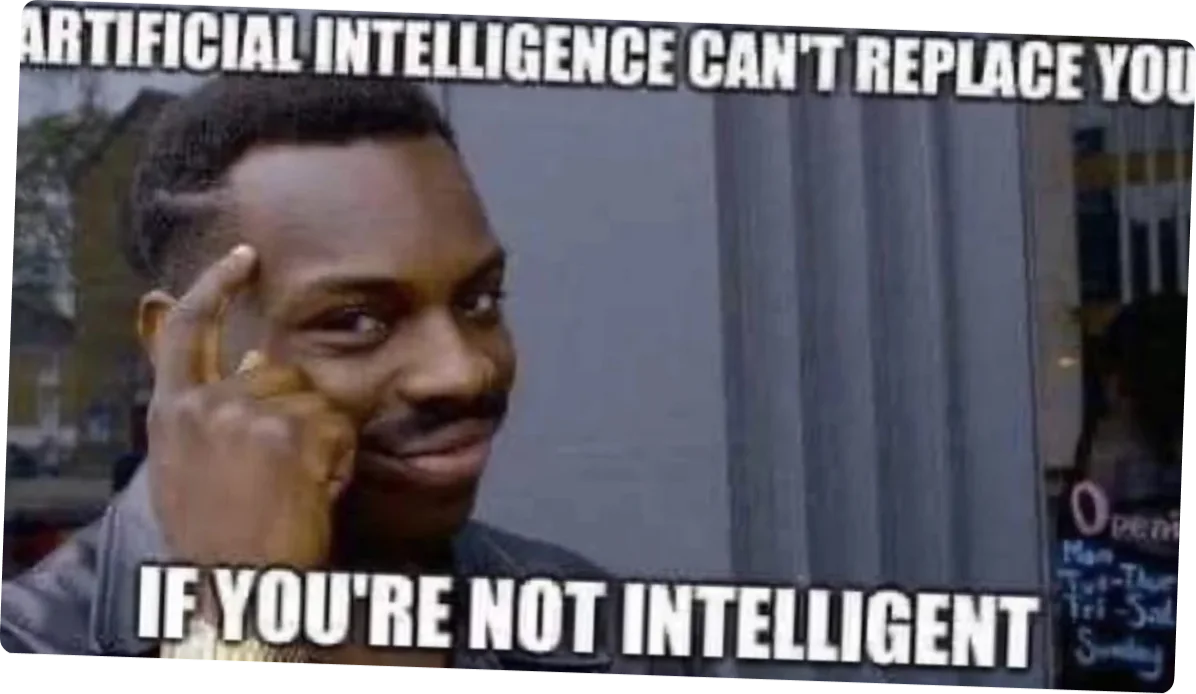
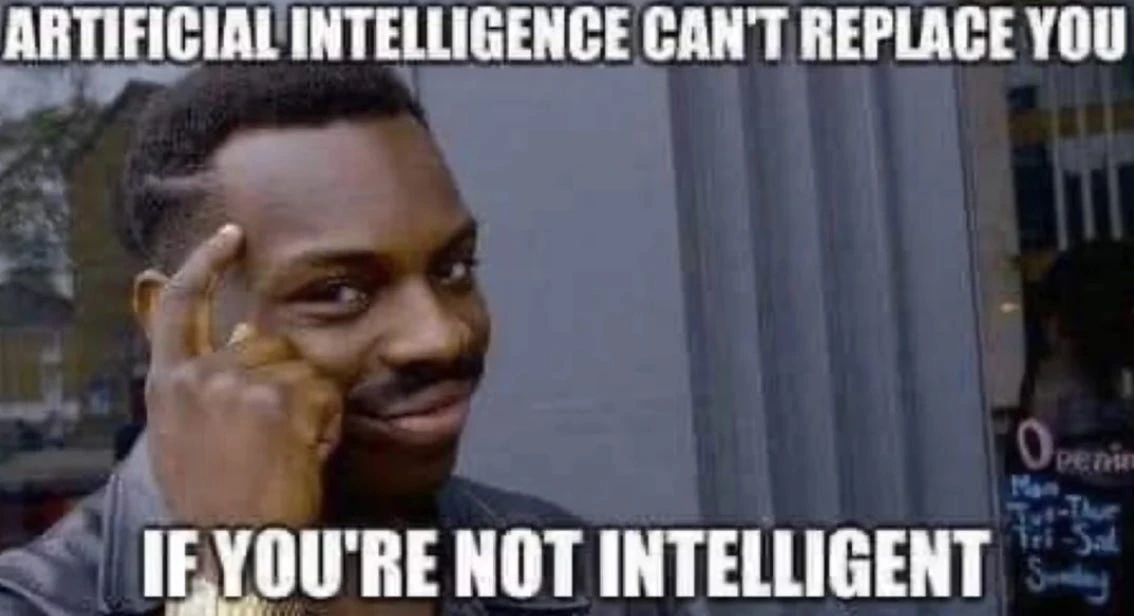
Smooth out the memes animation and sharpen every thumbnail
Animation: the slides are now dealt rather than cross-faded — each arrives
opaque, sliding up on an ease-out with a slight tip, and covers the one before
it. Cross-fading meant two memes showing through each other at every handover.

Three causes of the judder, all removed: a CSS transition fighting per-frame
writes to the same properties; the pin offset living in a custom property on
:root, which invalidated style for the whole page each frame; and a
requestAnimationFrame hop that only added a frame of lag behind the wheel.

Thumbnails: the memes were rendered nodes at 2x, so Figma upsampled them from
the source fill before I re-encoded. They now come from the source fills at
native resolution, with object-fit matching each node's Figma scale mode
(FILL -> cover, STRETCH -> fill).

Verified over the runway: the view holds one position, all seven slides play in
order with no empty frame, and per 4px of scroll opacity moves at most 0.089 and
position 5.7px — a continuous curve, no snapping.

Three sources stay soft because that is their size in Figma: meme 1 (490x367),
meme 6 (500x585) and article thumbnail 3 (399x501) are all smaller than the box
they are shown in.

diff --git a/script.js b/script.js
@@ -51,28 +51,81 @@
   /* --- pinned memes ------------------------------------------------------- */
 
   // While the pin is active the canvas is pushed down by exactly as much as the
-  // page scrolls, so the view stands still and only the slides change. Past the
+  // page scrolls, so the view stands still and only the slides move. Past the
   // runway the offset stays put and the page carries on as normal.
+  //
+  // Everything here is driven straight from the scroll offset, with no CSS
+  // transitions in the way: a transition fighting a per-frame update is what
+  // makes this kind of thing stutter. The slides cross-fade and drift on a
+  // continuous curve instead of snapping between states.
+
+  // Each slide is dealt onto the stack: it arrives opaque, sliding up into place
+  // with a slight tip, and covers the one before it. Nothing cross-fades while
+  // half-transparent — two memes showing through each other is what made the
+  // earlier version look muddy.
+  var ENTER   = 0.62;   // share of a slot spent arriving
+  var OPAQUE  = 0.12;   // share spent becoming solid — kept short so that two
+                        // memes are never visible through each other, and it
+                        // happens while the card is still far out and moving
+                        // fast, so it reads as motion rather than a fade
+  var TRAVEL  = 150;    // px the card covers on its way in
+  var RETIRE  = 2;      // slots behind before a covered slide is dropped
+  var memesHeading = document.getElementById('memes-h');
+
+  function clamp01(v) { return v < 0 ? 0 : v > 1 ? 1 : v; }
+
   function pinOffset() {
     return Math.min(Math.max(window.scrollY - pinFrom, 0), runway);
   }
 
   function syncPin() {
     var off = pinOffset();
-    document.documentElement.style.setProperty('--pin', off + 'px');
 
-    if (!memeSlides.length) return;
-    var i = runway ? Math.floor(off / runway * memeSlides.length) : 0;
-    i = Math.min(memeSlides.length - 1, Math.max(0, i));
-    memeSlides.forEach(function (s, n) { s.classList.toggle('is-active', n === i); });
+    // set the transform on the element, not as a custom property on :root —
+    // an inherited property invalidates every element in the page each frame
+    canvas.style.transform =
+      'translate3d(0,' + off + 'px,0) scale(' + scale + ')';
+
+    var n = memeSlides.length;
+    if (!n || !runway) return;
+
+    // slide 0 rests at the start, slide n-1 rests at the end
+    var s = off / runway * (n - 1);
+
+    for (var i = 0; i < n; i++) {
+      var u  = s - i + 1;                     // 0 = about to arrive, 1 = settled
+      var el = memeSlides[i];
+
+      if (u <= 0) { el.style.opacity = 0; continue; }
+
+      var a = clamp01(u / OPAQUE);
+      if (u > RETIRE) a *= clamp01(RETIRE + 1 - u);   // covered anyway, drop it
+      el.style.opacity = a;
+      if (a === 0) continue;
+
+      var e = clamp01(u / ENTER);
+      var k = 1 - Math.pow(1 - e, 3);         // ease-out, so it lands softly
+      var rest = 1 - k;
+      var tip  = (i % 2 ? -1 : 1) * 3.5 * rest;
+
+      el.style.transform =
+        'translate3d(0,' + (rest * TRAVEL).toFixed(2) + 'px,0)' +
+        ' rotate(' + tip.toFixed(2) + 'deg)' +
+        ' scale(' + (0.93 + 0.07 * k).toFixed(4) + ')';
+    }
+
+    // the heading drifts a touch against the stack — a hint of depth
+    if (memesHeading) {
+      memesHeading.style.transform =
+        'translate3d(0,' + (-(off / runway) * 26).toFixed(2) + 'px,0)';
+    }
   }
 
-  var pinQueued = false;
-  window.addEventListener('scroll', function () {
-    if (pinQueued) return;
-    pinQueued = true;
-    requestAnimationFrame(function () { pinQueued = false; syncPin(); });
-  }, { passive: true });
+  // Called straight from the scroll event rather than through requestAnimationFrame:
+  // the browser already coalesces scroll to at most one event per frame, and the
+  // extra rAF hop only adds a frame of lag between the wheel and the paint —
+  // which is exactly what reads as the animation dragging behind the scroll.
+  window.addEventListener('scroll', syncPin, { passive: true });
 
   syncPin();
 

diff --git a/index.html b/index.html
@@ -161,10 +161,10 @@
       <figure class="slide is-active" style="left:376px;top:12px;width:786px;height:721px"><img src="assets/img/meme-7.webp" alt="Meme" loading="lazy"></figure>
       <figure class="slide" style="left:437px;top:1px;width:626px;height:466px"><img src="assets/img/meme-1.webp" alt="Meme" loading="lazy"></figure>
       <figure class="slide" style="left:440px;top:1px;width:631px;height:613px"><img src="assets/img/meme-2.webp" alt="Meme" loading="lazy"></figure>
-      <figure class="slide" style="left:449px;top:1px;width:623px;height:372px"><img src="assets/img/meme-3.webp" alt="Meme" loading="lazy"></figure>
+      <figure class="slide" style="left:449px;top:1px;width:623px;height:372px"><img class="stretch" src="assets/img/meme-3.webp" alt="Meme" loading="lazy"></figure>
       <figure class="slide" style="left:449px;top:1px;width:633px;height:660px"><img src="assets/img/meme-4.webp" alt="Meme" loading="lazy"></figure>
       <figure class="slide" style="left:459px;top:1px;width:631px;height:613px"><img src="assets/img/meme-5.webp" alt="Meme" loading="lazy"></figure>
-      <figure class="slide" style="left:467px;top:1px;width:635px;height:715px"><img src="assets/img/meme-6.webp" alt="Meme" loading="lazy"></figure>
+      <figure class="slide" style="left:467px;top:1px;width:635px;height:715px"><img class="stretch" src="assets/img/meme-6.webp" alt="Meme" loading="lazy"></figure>
 
     </div>
   </section>

diff --git a/styles.css b/styles.css
@@ -232,6 +232,8 @@ img.a, .bg img { display: block; user-select: none; -webkit-user-drag: none; }
 
 /* --- memes carousel ------------------------------------------------------ */
 
+/* Opacity and transform are written every frame from the scroll offset, so
+   there is deliberately no transition here — one would fight the other. */
 .memes .slide {
   position: absolute;
   margin: 0;
@@ -240,11 +242,25 @@ img.a, .bg img { display: block; user-select: none; -webkit-user-drag: none; }
   box-shadow: inset 0 0 0 3px var(--pink-line);
   border-radius: 12px;
   opacity: 0;
-  visibility: hidden;
-  transition: opacity .3s ease;
+  pointer-events: none;
+  transform-origin: 50% 50%;
+  will-change: opacity, transform;
 }
-.memes .slide.is-active { opacity: 1; visibility: visible; }
-.memes .slide img { width: 100%; height: 100%; object-fit: cover; border-radius: 8px; }
+.memes .slide img {
+  width: 100%;
+  height: 100%;
+  object-fit: cover;      /* Figma FILL */
+  border-radius: 8px;
+}
+.memes .slide img.stretch { object-fit: fill; }   /* Figma STRETCH */
+
+#memes-h { will-change: transform; }
+
+@media (prefers-reduced-motion: reduce) {
+  /* keep the cross-fade, drop the drift */
+  .memes .slide { transform: none !important; }
+  #memes-h { transform: none !important; }
+}
 
 /* --- about --------------------------------------------------------------- */
 

diff --git a/README.md b/README.md
@@ -144,10 +144,28 @@ framed together — while the seven slides cross-fade one into the next, 320px o
 scroll each; past the last one the page carries on.
 
 The pin is done by pushing the canvas down by exactly as much as the page
-scrolls (`--pin`), so the view stands still without any position juggling. The
-document carries `slides × 320px` of extra height for that runway, and anchor
-navigation adds it back for targets below the block. There are no arrows and no
-pagination — scrolling is the only control.
+scrolls, so the view stands still without any position juggling. The document
+carries `slides × 320px` of extra height for that runway, and anchor navigation
+adds it back for targets below the block. There are no arrows and no pagination
+— scrolling is the only control.
+
+Three things keep it from stuttering, all learned the hard way:
+
+- **No CSS transition on the slides.** Opacity and transform are written every
+  frame from the scroll offset; a transition trying to animate the same
+  properties fights those writes and the result judders.
+- **No custom property on `:root`.** The pin offset is written straight onto the
+  canvas element. An inherited custom property invalidates style for every
+  element in the page on each frame.
+- **No `requestAnimationFrame` hop.** The browser already coalesces scroll to one
+  event per frame; the extra hop only adds a frame of lag, which reads as the
+  animation dragging behind the wheel.
+
+The slides are *dealt*, not cross-faded: each arrives opaque, sliding up 150px
+on an ease-out with a slight tip, and covers the one before it. An earlier
+version cross-faded, which meant two memes showing through each other at every
+handover — the fade is now short enough (45px of scroll) that it happens while
+the card is still far out and moving fast, so it reads as motion.
 
 ## Known gaps
 
